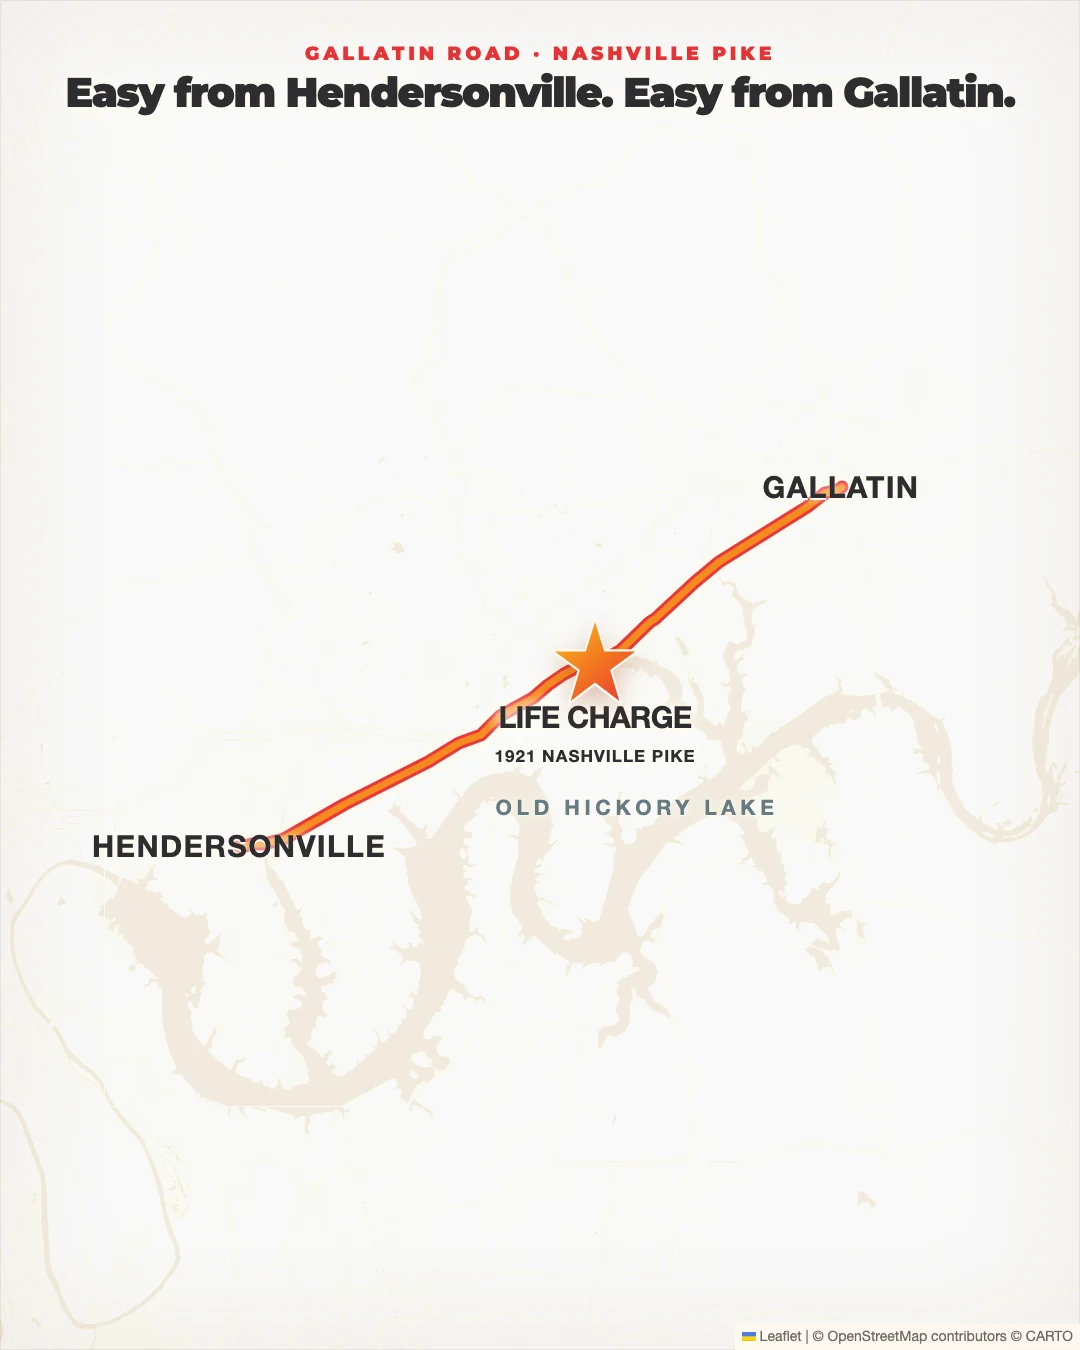
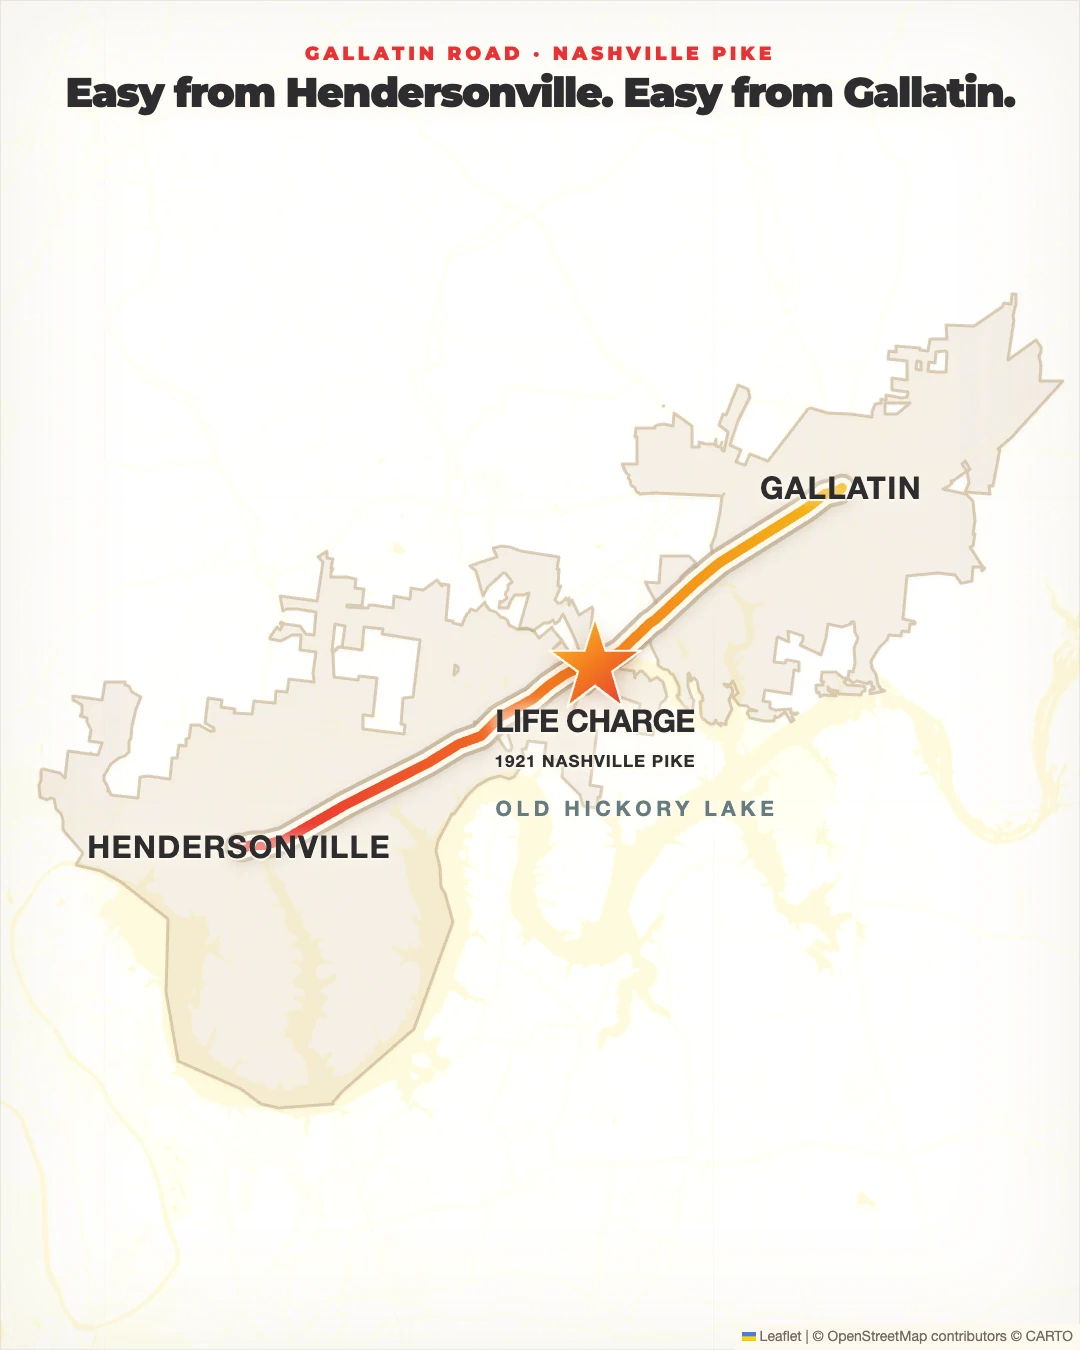
Refine map with premium town outlines

diff --git a/new-patient-offer/index.html b/new-patient-offer/index.html
@@ -422,8 +422,8 @@
       </div>
       <a class="location-map-card" data-track="directions" href="https://www.google.com/maps/search/?api=1&amp;query=Life+Charge+Chiropractic+Gallatin+TN" target="_blank" rel="noopener" aria-label="Open Life Charge Chiropractic in Google Maps">
         <picture>
-          <source media="(max-width:720px)" srcset="../assets/photos/location-hendersonville-gallatin-mobile.webp?v=4d7ff69" width="1080" height="1350">
-          <img src="../assets/photos/location-hendersonville-gallatin.webp?v=4d7ff69" width="1672" height="941" alt="Map based on real road geography showing Life Charge Chiropractic on Nashville Pike between Hendersonville and Gallatin beside Old Hickory Lake" loading="lazy">
+          <source media="(max-width:720px)" srcset="../assets/photos/location-hendersonville-gallatin-mobile.webp?v=premium2" width="1080" height="1350">
+          <img src="../assets/photos/location-hendersonville-gallatin.webp?v=premium2" width="1672" height="941" alt="Map based on real road geography showing Life Charge Chiropractic on Nashville Pike between Hendersonville and Gallatin beside Old Hickory Lake" loading="lazy">
         </picture>
       </a>
       <div class="location-meta">
